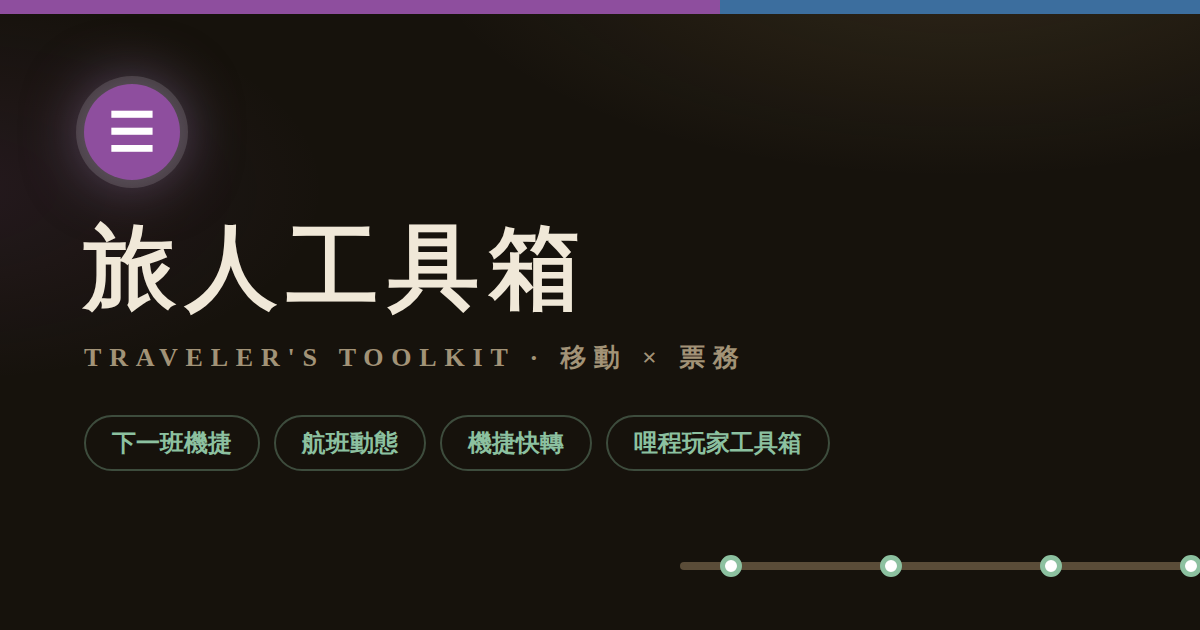
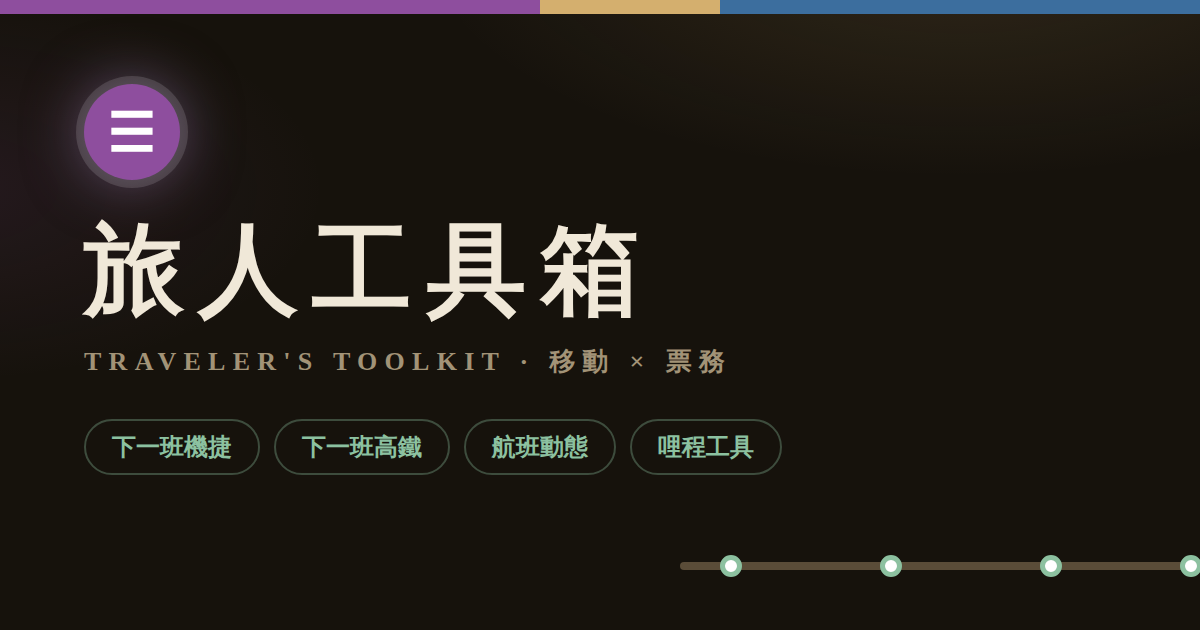
儀表板加桃園站下一班高鐵卡；快轉改名同步（卡片文案與 og.png）
Claude-Session: https://claude.ai/code/session_011g1R8NMHxSwUZo1SYStv8x

diff --git a/index.html b/index.html
@@ -127,16 +127,20 @@
       <h3><a href="https://chung223.github.io/tymetrofast/#v=flight">✈ 航班動態 ↗</a></h3>
       <div id="d-fl-body"><p class="dnote">載入中…</p></div>
     </div>
+    <div class="dcard" id="d-hsr" hidden>
+      <h3><a href="https://chung223.github.io/tymetrofast/#v=hsr">🚄 桃園站下一班高鐵 ↗</a></h3>
+      <div id="d-hsr-body"><p class="dnote">載入中…</p></div>
+    </div>
   </div>
 
   <div class="cards">
     <a class="card mrt" href="https://chung223.github.io/tymetrofast/">
       <span class="tag">GETTING THERE · 移動的事</span>
-      <h2>🚇 機捷快轉</h2>
-      <p>桃園機場捷運的最快搭法：直達車＋轉乘逐班計算、查航班看報到櫃台、接送機規劃、趕飛機反推最晚出發。</p>
+      <h2>🚄 快轉</h2>
+      <p>高鐵 × 機捷 × 桃園機場：高鐵任意起訖與餘票、機捷直達車轉乘逐班計算、查航班看報到櫃台、接送機與出差行程規劃。</p>
       <div class="feats">
-        <span>官方逐班時刻</span><span>報到櫃台</span><span>接送機</span><span>高鐵接駁</span>
-        <span>機場天氣・METAR</span><span>票價</span><span>離線 PWA</span><span>中英日韓</span>
+        <span>高鐵時刻・餘票</span><span>官方逐班時刻</span><span>報到櫃台</span><span>接送機</span>
+        <span>高鐵×機捷聯程</span><span>票價</span><span>離線 PWA</span><span>中英日韓</span>
       </div>
       <span class="go">出發 ▶</span>
     </a>
@@ -231,9 +235,38 @@
     } catch { el.innerHTML = '<p class="dnote">看板資料暫時無法載入</p>'; }
   }
 
-  mrtCard(); flightCard();
+  async function hsrCard(){
+    const el = $id('d-hsr-body');
+    try {
+      const base = '/tymetrofast/data/';
+      const [tt, live, sts] = await Promise.all([J(base+'thsr-timetable.json'), J(base+'thsr-live.json').catch(() => null), J(base+'thsr-stations.json').catch(() => null)]);
+      const now = nowTW();
+      const trains = tt.days?.[now.date];
+      if (!trains) throw 0;
+      const nameOf = (id) => sts?.stations?.find((s) => s.id === id)?.zh ?? id;
+      const seatTxt = (v) => !v ? '' : /full/i.test(v) ? '售完' : /limit/i.test(v) ? '有限' : '充足';
+      const rows = [];
+      for (const tr of trains) {
+        const i = tr.stops.findIndex(([sid]) => sid === '1020');
+        if (i < 0 || i === tr.stops.length - 1) continue;
+        const dep = tr.stops[i][1];
+        if (!dep || (+dep.slice(0,2))*60 + (+dep.slice(3,5)) < now.min) continue;
+        const dest = tr.stops[tr.stops.length - 1][0];
+        const seat = live?.seat?.['1020']?.[tr.no]?.[0];
+        rows.push({ dep: dep.slice(0,5), no: tr.no, dest, seat });
+      }
+      rows.sort((a,b) => a.dep.localeCompare(b.dep));
+      el.innerHTML = rows.slice(0,4).map((r) =>
+        `<div class="drow"><span class="tm">${esc(r.dep)}</span><span class="ds">${esc(r.no)} 次 往${esc(nameOf(r.dest))}</span><span class="st">${r.seat ? '標準 ' + seatTxt(r.seat) : ''}</span></div>`
+      ).join('') || '<div class="drow"><span class="ds">今日班次已結束</span></div>';
+      el.innerHTML += `<p class="dnote">餘票每 30 分鐘更新 · ${esc(live?.updated ?? '')}</p>`;
+      $id('d-hsr').hidden = false;
+    } catch { $id('d-hsr').hidden = true; }
+  }
+  mrtCard(); flightCard(); hsrCard();
   setInterval(mrtCard, 60000);
   setInterval(flightCard, 5*60000);
+  setInterval(hsrCard, 5*60000);
 })();
 </script>
 </body>
